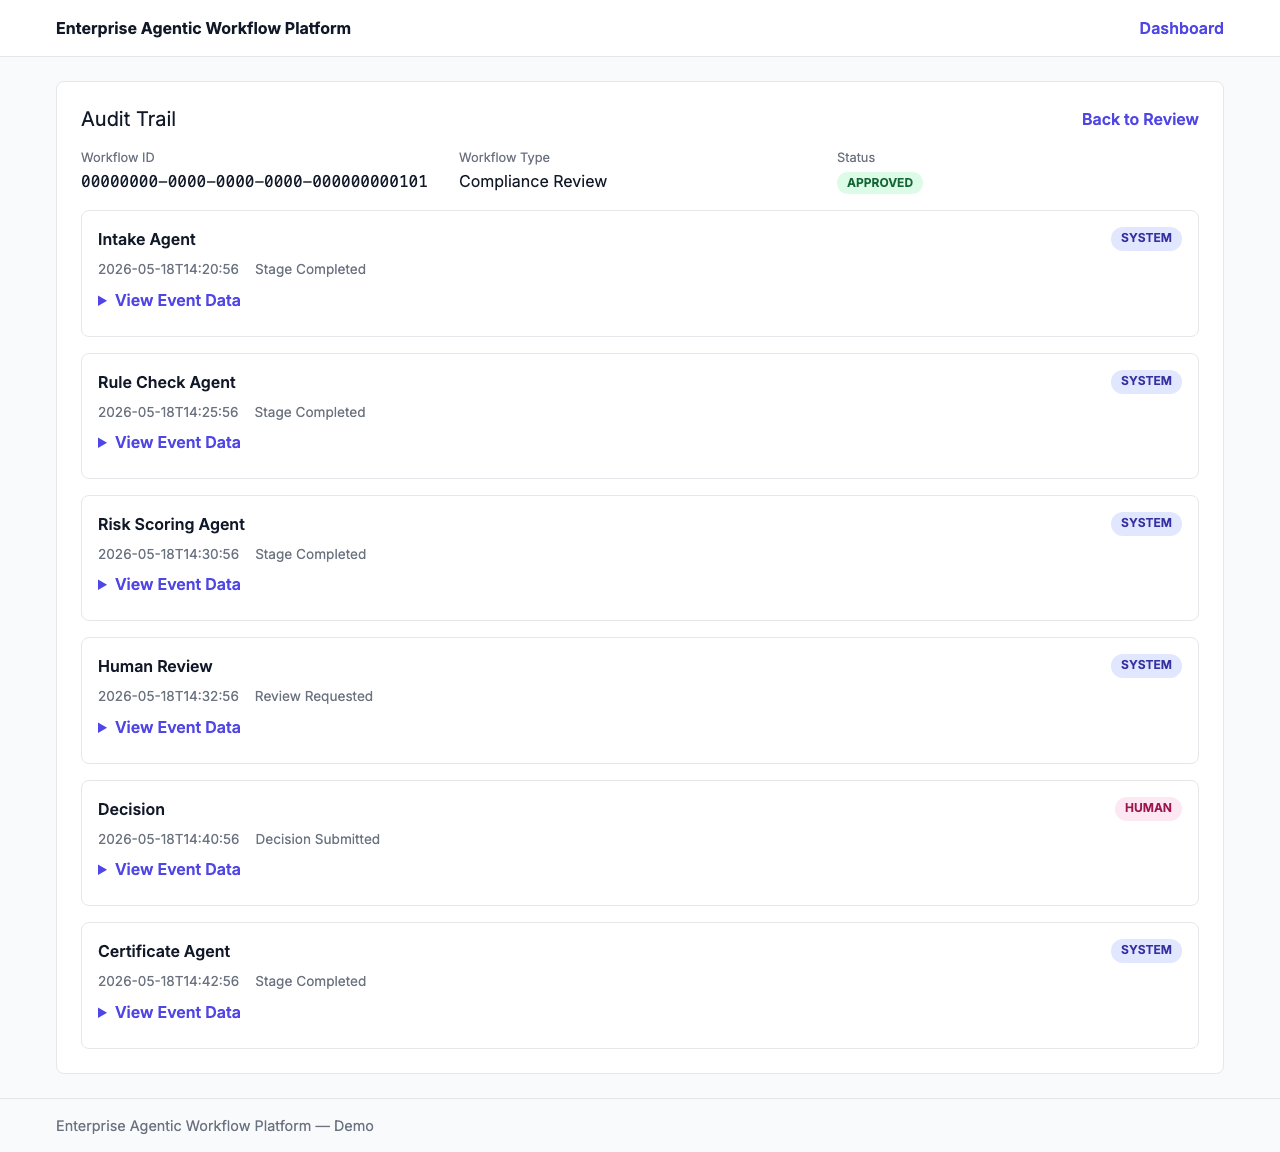
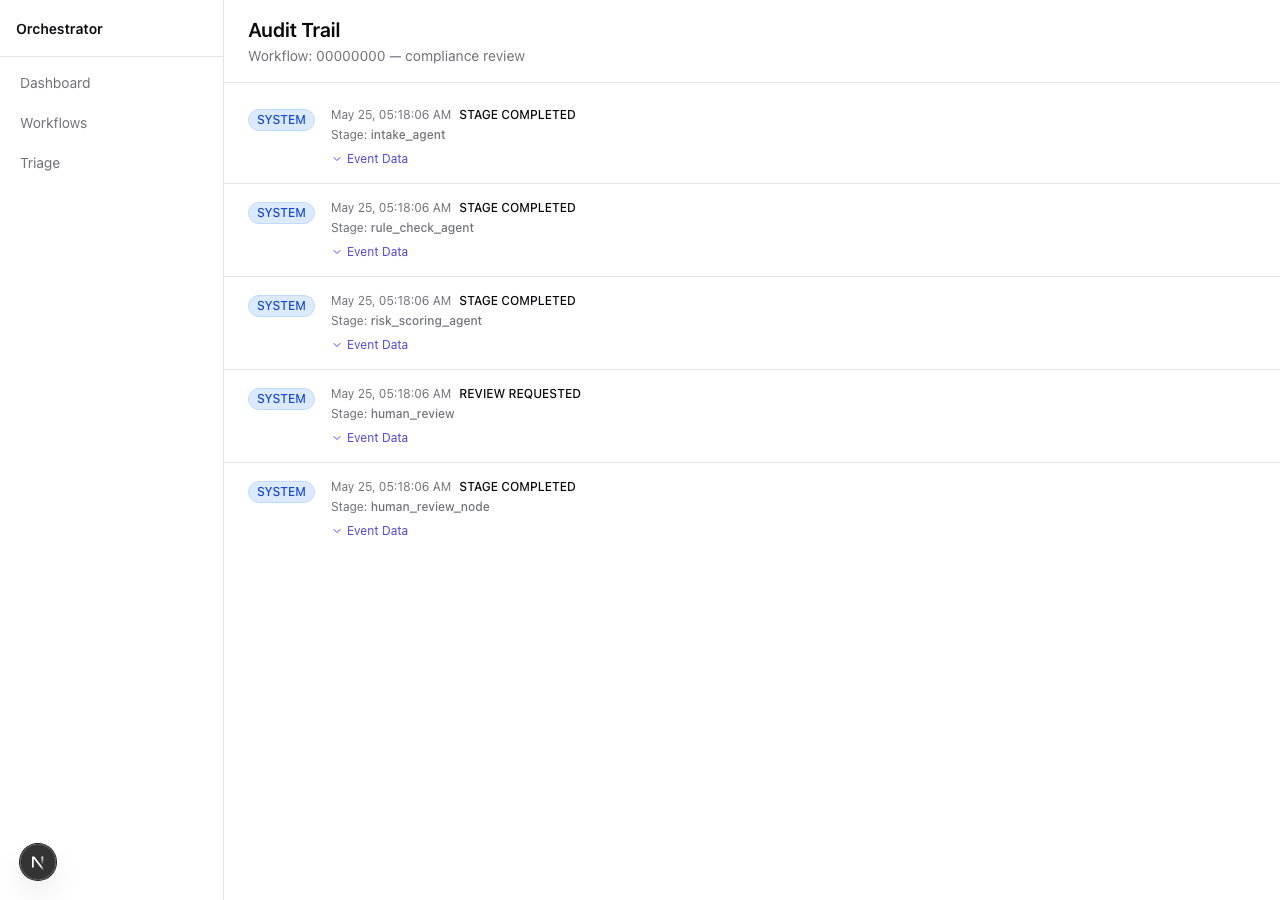
Refresh screenshots and README for Next.js frontend
Replace stale Jinja2-era screenshots with current Next.js/shadcn UI
captures across all four pages. Add incident triage screenshot (new).
Update Screenshots section captions and Demo Walkthrough to match the
actual four seeded workflows.

diff --git a/README.md b/README.md
@@ -215,29 +215,35 @@ cd frontend && npm run dev
 
 ## Screenshots
 
-**Dashboard** — three workflow states, live from the database
+**Dashboard** — four live workflows across two types, colour-coded status badges
 
 ![Dashboard](demo/dashboard.png)
 
-**Human review screen** — extracted fields, rule results, risk score, decision form
+**Compliance review** — extracted document fields, per-rule pass/fail/severity, LLM risk score, decision form with Request More Info
 
-![Human Review](demo/review-screen.png)
+![Compliance Review](demo/review-screen.png)
 
-**Audit trail** — ordered event timeline, SYSTEM and HUMAN actor labels
+**Audit trail** — immutable ordered event timeline, SYSTEM and HUMAN actor labels, expandable event payloads
 
 ![Audit Trail](demo/audit-trail.png)
+
+**Incident triage** — P1 severity badge, incident description, PagerDuty metadata, reasoning, APPROVE/REJECT decision form
+
+![Incident Triage](demo/triage-screen.png)
 
 ---
 
 ## Demo Walkthrough
 
-**Five minutes, three screens:**
+**Five minutes, four screens:**
 
-1. **Dashboard** — open `http://localhost:3000`. Show three workflows in different states: `APPROVED`, `PAUSED`, `REJECTED`. Status badges reflect live database state.
+1. **Dashboard** — open `http://localhost:3000`. Four seeded workflows across two types: `APPROVED`, `PAUSED` (compliance), `REJECTED`, and a `PAUSED` incident triage. Status badges reflect live database state.
 
-2. **Human review screen** — open the `PAUSED` workflow. The page shows extracted document fields, rule evaluation results (pass/fail/flag per rule), the LLM-generated risk score and reasoning, and a decision form. Submit `APPROVED`.
+2. **Compliance review** — open the PAUSED compliance workflow (`/review/00000000-0000-0000-0000-000000000202`). Shows extracted document fields, rule results with per-rule severity badges, LLM risk score and reasoning, decision form with Approve / Reject / Request More Info. Submit `APPROVED`.
 
-3. **Audit trail** — open `/audit/{id}` for the same workflow. The page shows the complete ordered event timeline: every agent action, every rule result, the human decision, and the final certificate generation — all with timestamps and actor labels.
+3. **Audit trail** — open `/audit/00000000-0000-0000-0000-000000000202`. Complete ordered event timeline: every agent action, rule evaluation, human decision, and certificate generation — all with timestamps, SYSTEM/HUMAN actor labels, and expandable event payloads.
+
+4. **Incident triage** — open `/triage/00000000-0000-0000-0000-000000000404`. Shows the P1 severity badge, incident description, PagerDuty source metadata, LLM classification reasoning, and an APPROVE/REJECT decision form.
 
 ---
 
